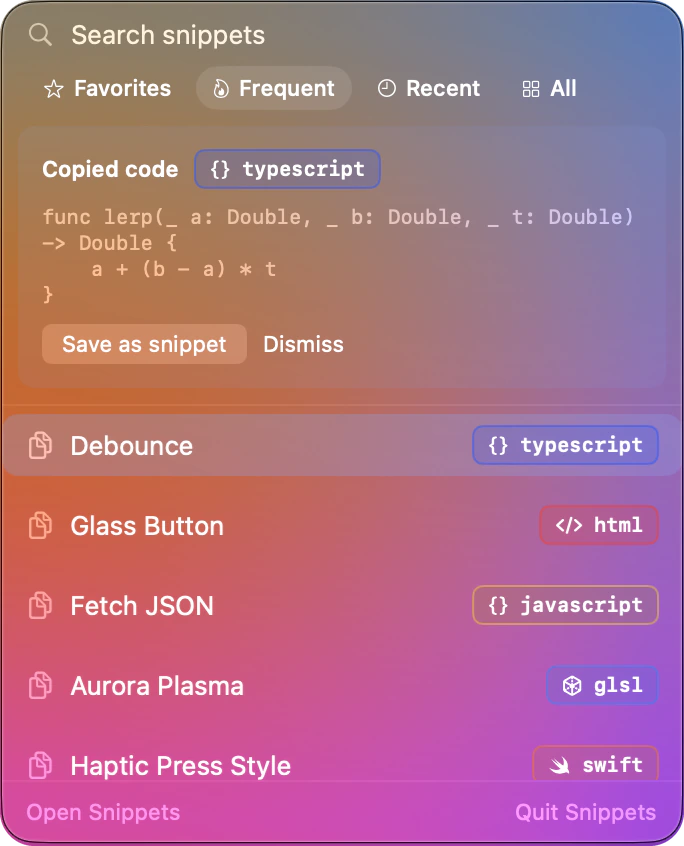
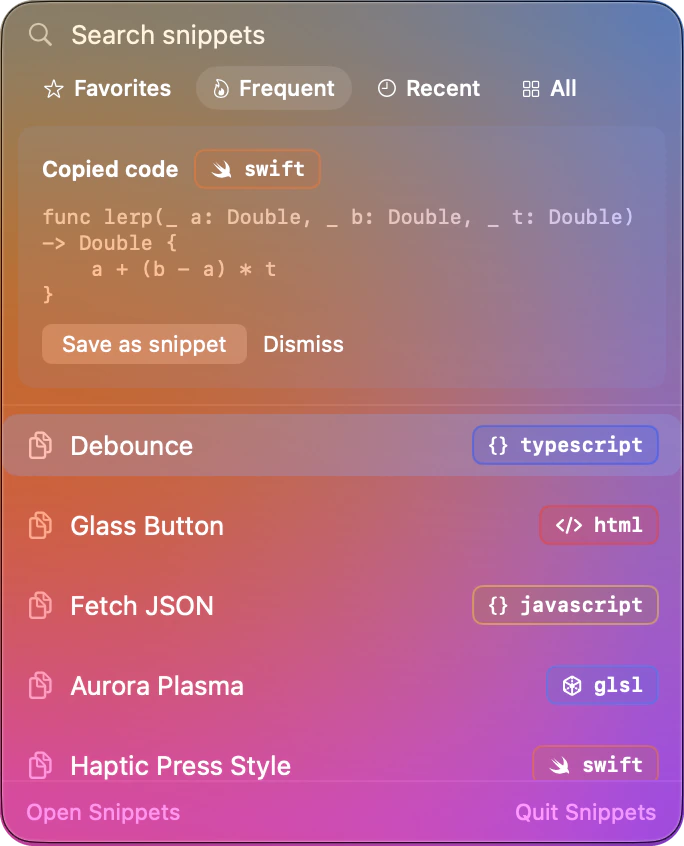
Features link, Support Snippets button, swift-tagged capture shots

Changed region(s): [[0.2763, 0.1537, 0.5833, 0.2459]]

diff --git a/snippets/index.html b/snippets/index.html
@@ -31,6 +31,7 @@
   <header class="nav glass">
     <a class="brand" href="./"><img class="theme-light" src="icon-light.png" alt=""><img class="theme-dark" src="icon-dark.png" alt="">snippets</a>
     <nav class="nav-links" aria-label="Site">
+      <a href="#features">features</a>
       <a href="support/">support</a>
       <a href="privacy/">privacy</a>
       <a href="license/">license</a>
@@ -41,6 +42,7 @@
       <button type="button" data-choice="light" aria-pressed="false" title="Light"><svg viewBox="0 0 16 16" fill="none" stroke="currentColor" stroke-width="1.5" stroke-linecap="round"><circle cx="8" cy="8" r="3"/><path d="M8 1v1.5M8 13.5V15M1 8h1.5M13.5 8H15M3 3l1 1M12 12l1 1M3 13l1-1M12 4l1-1"/></svg><span class="sr-only">Light</span></button>
       <button type="button" data-choice="dark" aria-pressed="false" title="Dark"><svg viewBox="0 0 16 16" fill="currentColor"><path d="M13.5 10.2A6 6 0 0 1 5.8 2.5a6 6 0 1 0 7.7 7.7z"/></svg><span class="sr-only">Dark</span></button>
     </div>
+    <a class="btn btn-glass btn-sponsor" href="https://github.com/sponsors/halilbagosi" target="_blank" rel="noopener"><svg viewBox="0 0 16 16" fill="currentColor" aria-hidden="true"><path d="M8 14.2 6.9 13.2C3 9.7.5 7.4.5 4.6.5 2.4 2.2.7 4.4.7c1.2 0 2.5.6 3.6 1.8C9.1 1.3 10.4.7 11.6.7c2.2 0 3.9 1.7 3.9 3.9 0 2.8-2.5 5.1-6.4 8.6z"/></svg><span>Support Snippets</span></a>
     <a class="btn btn-primary" href="#download"><svg viewBox="0 0 16 16" fill="none" stroke="currentColor" stroke-width="1.8" stroke-linecap="round" stroke-linejoin="round"><path d="M8 2v8.5M4.5 7 8 10.5 11.5 7M3 13.5h10"/></svg><span>download</span></a>
   </header>
 <!-- /header -->
@@ -216,11 +218,15 @@
       <img class="download-icon reveal theme-light" src="icon-light.png" width="128" height="128" alt="">
       <img class="download-icon reveal theme-dark" src="icon-dark.png" width="128" height="128" alt="" loading="lazy">
       <h2 class="headline reveal">Get Snippets.</h2>
-      <p class="lede reveal">Free to use, at home and at work.</p>
+      <p class="lede reveal">Free to use, at home and at work. If it saves you time, you can support its development.</p>
       <div class="reveal">
         <a class="btn btn-primary btn-lg" href="https://github.com/halilbagosi/halilbagosi.github.io/releases/latest/download/Snippets.dmg">
           <svg viewBox="0 0 16 16" fill="none" stroke="currentColor" stroke-width="1.8" stroke-linecap="round" stroke-linejoin="round"><path d="M8 2v8.5M4.5 7 8 10.5 11.5 7M3 13.5h10"/></svg>
           Download Snippets 1.0
+        </a>
+        <a class="btn btn-glass btn-lg btn-sponsor" href="https://github.com/sponsors/halilbagosi" target="_blank" rel="noopener">
+          <svg viewBox="0 0 16 16" fill="currentColor" aria-hidden="true"><path d="M8 14.2 6.9 13.2C3 9.7.5 7.4.5 4.6.5 2.4 2.2.7 4.4.7c1.2 0 2.5.6 3.6 1.8C9.1 1.3 10.4.7 11.6.7c2.2 0 3.9 1.7 3.9 3.9 0 2.8-2.5 5.1-6.4 8.6z"/></svg>
+          Support Snippets
         </a>
       </div>
       <p class="hero-meta reveal">Snippets.dmg · macOS 26 or later</p>

diff --git a/snippets/license/index.html b/snippets/license/index.html
@@ -22,6 +22,7 @@
   <header class="nav glass">
     <a class="brand" href="../"><img class="theme-light" src="../icon-light.png" alt=""><img class="theme-dark" src="../icon-dark.png" alt="">snippets</a>
     <nav class="nav-links" aria-label="Site">
+      <a href="../#features">features</a>
       <a href="../support/">support</a>
       <a href="../privacy/">privacy</a>
       <a href="../license/" aria-current="page">license</a>
@@ -32,6 +33,7 @@
       <button type="button" data-choice="light" aria-pressed="false" title="Light"><svg viewBox="0 0 16 16" fill="none" stroke="currentColor" stroke-width="1.5" stroke-linecap="round"><circle cx="8" cy="8" r="3"/><path d="M8 1v1.5M8 13.5V15M1 8h1.5M13.5 8H15M3 3l1 1M12 12l1 1M3 13l1-1M12 4l1-1"/></svg><span class="sr-only">Light</span></button>
       <button type="button" data-choice="dark" aria-pressed="false" title="Dark"><svg viewBox="0 0 16 16" fill="currentColor"><path d="M13.5 10.2A6 6 0 0 1 5.8 2.5a6 6 0 1 0 7.7 7.7z"/></svg><span class="sr-only">Dark</span></button>
     </div>
+    <a class="btn btn-glass btn-sponsor" href="https://github.com/sponsors/halilbagosi" target="_blank" rel="noopener"><svg viewBox="0 0 16 16" fill="currentColor" aria-hidden="true"><path d="M8 14.2 6.9 13.2C3 9.7.5 7.4.5 4.6.5 2.4 2.2.7 4.4.7c1.2 0 2.5.6 3.6 1.8C9.1 1.3 10.4.7 11.6.7c2.2 0 3.9 1.7 3.9 3.9 0 2.8-2.5 5.1-6.4 8.6z"/></svg><span>Support Snippets</span></a>
     <a class="btn btn-primary" href="../#download"><svg viewBox="0 0 16 16" fill="none" stroke="currentColor" stroke-width="1.8" stroke-linecap="round" stroke-linejoin="round"><path d="M8 2v8.5M4.5 7 8 10.5 11.5 7M3 13.5h10"/></svg><span>download</span></a>
   </header>
 

diff --git a/snippets/privacy/index.html b/snippets/privacy/index.html
@@ -22,6 +22,7 @@
   <header class="nav glass">
     <a class="brand" href="../"><img class="theme-light" src="../icon-light.png" alt=""><img class="theme-dark" src="../icon-dark.png" alt="">snippets</a>
     <nav class="nav-links" aria-label="Site">
+      <a href="../#features">features</a>
       <a href="../support/">support</a>
       <a href="../privacy/" aria-current="page">privacy</a>
       <a href="../license/">license</a>
@@ -32,6 +33,7 @@
       <button type="button" data-choice="light" aria-pressed="false" title="Light"><svg viewBox="0 0 16 16" fill="none" stroke="currentColor" stroke-width="1.5" stroke-linecap="round"><circle cx="8" cy="8" r="3"/><path d="M8 1v1.5M8 13.5V15M1 8h1.5M13.5 8H15M3 3l1 1M12 12l1 1M3 13l1-1M12 4l1-1"/></svg><span class="sr-only">Light</span></button>
       <button type="button" data-choice="dark" aria-pressed="false" title="Dark"><svg viewBox="0 0 16 16" fill="currentColor"><path d="M13.5 10.2A6 6 0 0 1 5.8 2.5a6 6 0 1 0 7.7 7.7z"/></svg><span class="sr-only">Dark</span></button>
     </div>
+    <a class="btn btn-glass btn-sponsor" href="https://github.com/sponsors/halilbagosi" target="_blank" rel="noopener"><svg viewBox="0 0 16 16" fill="currentColor" aria-hidden="true"><path d="M8 14.2 6.9 13.2C3 9.7.5 7.4.5 4.6.5 2.4 2.2.7 4.4.7c1.2 0 2.5.6 3.6 1.8C9.1 1.3 10.4.7 11.6.7c2.2 0 3.9 1.7 3.9 3.9 0 2.8-2.5 5.1-6.4 8.6z"/></svg><span>Support Snippets</span></a>
     <a class="btn btn-primary" href="../#download"><svg viewBox="0 0 16 16" fill="none" stroke="currentColor" stroke-width="1.8" stroke-linecap="round" stroke-linejoin="round"><path d="M8 2v8.5M4.5 7 8 10.5 11.5 7M3 13.5h10"/></svg><span>download</span></a>
   </header>
 

diff --git a/snippets/support/index.html b/snippets/support/index.html
@@ -22,6 +22,7 @@
   <header class="nav glass">
     <a class="brand" href="../"><img class="theme-light" src="../icon-light.png" alt=""><img class="theme-dark" src="../icon-dark.png" alt="">snippets</a>
     <nav class="nav-links" aria-label="Site">
+      <a href="../#features">features</a>
       <a href="../support/" aria-current="page">support</a>
       <a href="../privacy/">privacy</a>
       <a href="../license/">license</a>
@@ -32,6 +33,7 @@
       <button type="button" data-choice="light" aria-pressed="false" title="Light"><svg viewBox="0 0 16 16" fill="none" stroke="currentColor" stroke-width="1.5" stroke-linecap="round"><circle cx="8" cy="8" r="3"/><path d="M8 1v1.5M8 13.5V15M1 8h1.5M13.5 8H15M3 3l1 1M12 12l1 1M3 13l1-1M12 4l1-1"/></svg><span class="sr-only">Light</span></button>
       <button type="button" data-choice="dark" aria-pressed="false" title="Dark"><svg viewBox="0 0 16 16" fill="currentColor"><path d="M13.5 10.2A6 6 0 0 1 5.8 2.5a6 6 0 1 0 7.7 7.7z"/></svg><span class="sr-only">Dark</span></button>
     </div>
+    <a class="btn btn-glass btn-sponsor" href="https://github.com/sponsors/halilbagosi" target="_blank" rel="noopener"><svg viewBox="0 0 16 16" fill="currentColor" aria-hidden="true"><path d="M8 14.2 6.9 13.2C3 9.7.5 7.4.5 4.6.5 2.4 2.2.7 4.4.7c1.2 0 2.5.6 3.6 1.8C9.1 1.3 10.4.7 11.6.7c2.2 0 3.9 1.7 3.9 3.9 0 2.8-2.5 5.1-6.4 8.6z"/></svg><span>Support Snippets</span></a>
     <a class="btn btn-primary" href="../#download"><svg viewBox="0 0 16 16" fill="none" stroke="currentColor" stroke-width="1.8" stroke-linecap="round" stroke-linejoin="round"><path d="M8 2v8.5M4.5 7 8 10.5 11.5 7M3 13.5h10"/></svg><span>download</span></a>
   </header>
 

diff --git a/snippets/style.css b/snippets/style.css
@@ -345,6 +345,10 @@ img, video { display: block; max-width: 100%; }
 
 .nav .btn { padding: 7px 14px; font-size: 14px; }
 
+/* Support Snippets: glass, with the icon's pink heart. */
+.btn-sponsor svg { color: var(--pink); width: 15px; height: 15px; transition: transform 200ms var(--ease-out); }
+.btn-sponsor:hover svg { transform: scale(1.15); }
+
 /* ───────────── Type ───────────── */
 
 .eyebrow,
@@ -544,6 +548,10 @@ code, kbd {
   .nav-links { display: none; }
   .wrap { padding: 0 18px; }
   .doc { padding-top: 48px; }
+}
+@media (max-width: 980px) {
+  .nav .btn-sponsor span { display: none; }
+  .nav .btn-sponsor { padding: 7px 10px; }
 }
 @media (max-width: 420px) {
   .nav .btn span { display: none; }

diff --git a/snippets/home.css b/snippets/home.css
@@ -329,6 +329,7 @@
   filter: drop-shadow(0 18px 30px rgba(10, 132, 255, 0.28));
 }
 .download .lede { margin: 12px 0 28px; }
+.download .reveal:has(> .btn) { display: flex; gap: 12px; justify-content: center; flex-wrap: wrap; }
 
 .steps {
   list-style: none;
